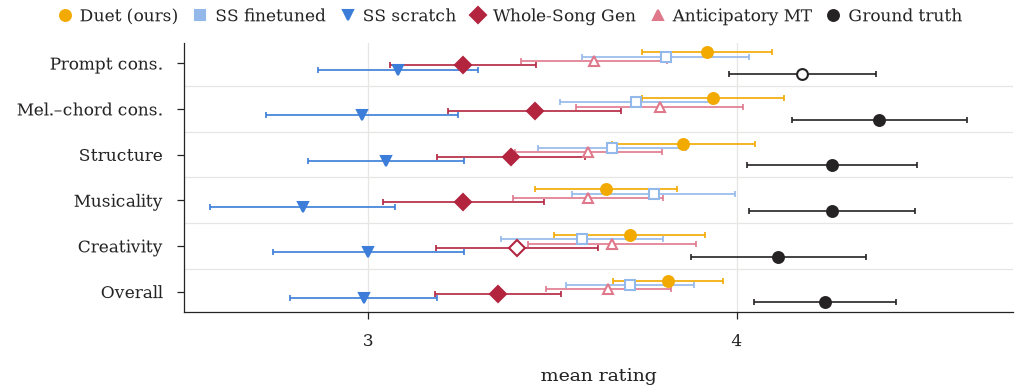
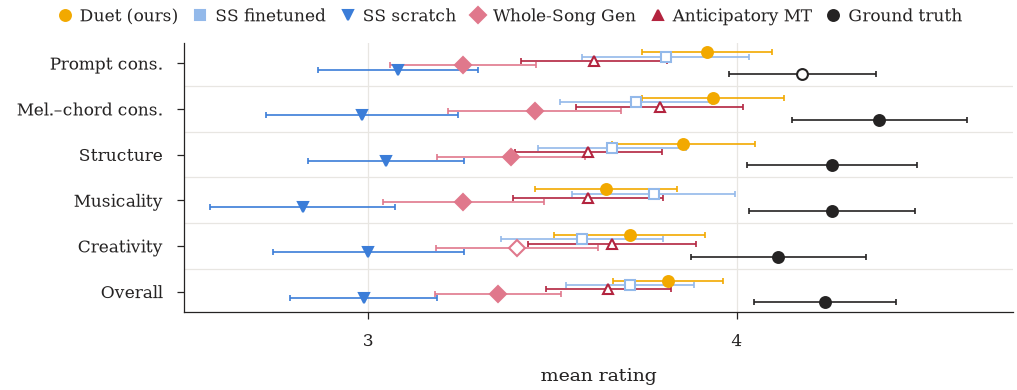
Palette: Whole-Song Gen the lighter maroon, AMT the darker
Claude-Session: https://claude.ai/code/session_012w7PFbJyWP4meVE3CJpfno

diff --git a/midi_yinyang/plot_e1_box.py b/midi_yinyang/plot_e1_box.py
@@ -149,8 +149,8 @@ SYSTEM_COLOR = {
     'A1':        '#f9cf6b',        # lighter gold
     'S-scratch': PALETTE['slate'],
     'S1':        '#93b9ea',        # lighter slate
-    'WSfv4':     PALETTE['maroon'],
-    'AMT':       '#e0788c',        # lighter maroon
+    'WSfv4':     '#e0788c',        # lighter maroon
+    'AMT':       PALETTE['maroon'],
 }
 FAMILY_COLOR = {
     'Ours':                PALETTE['gold'],
